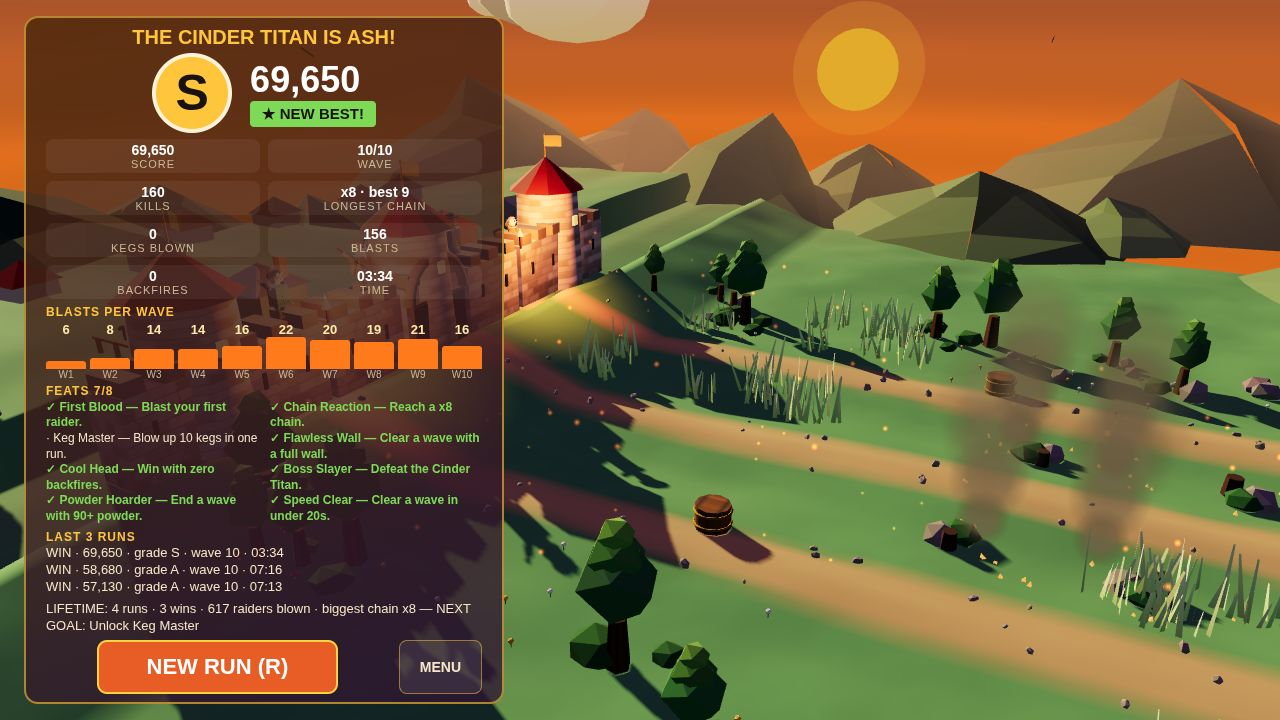
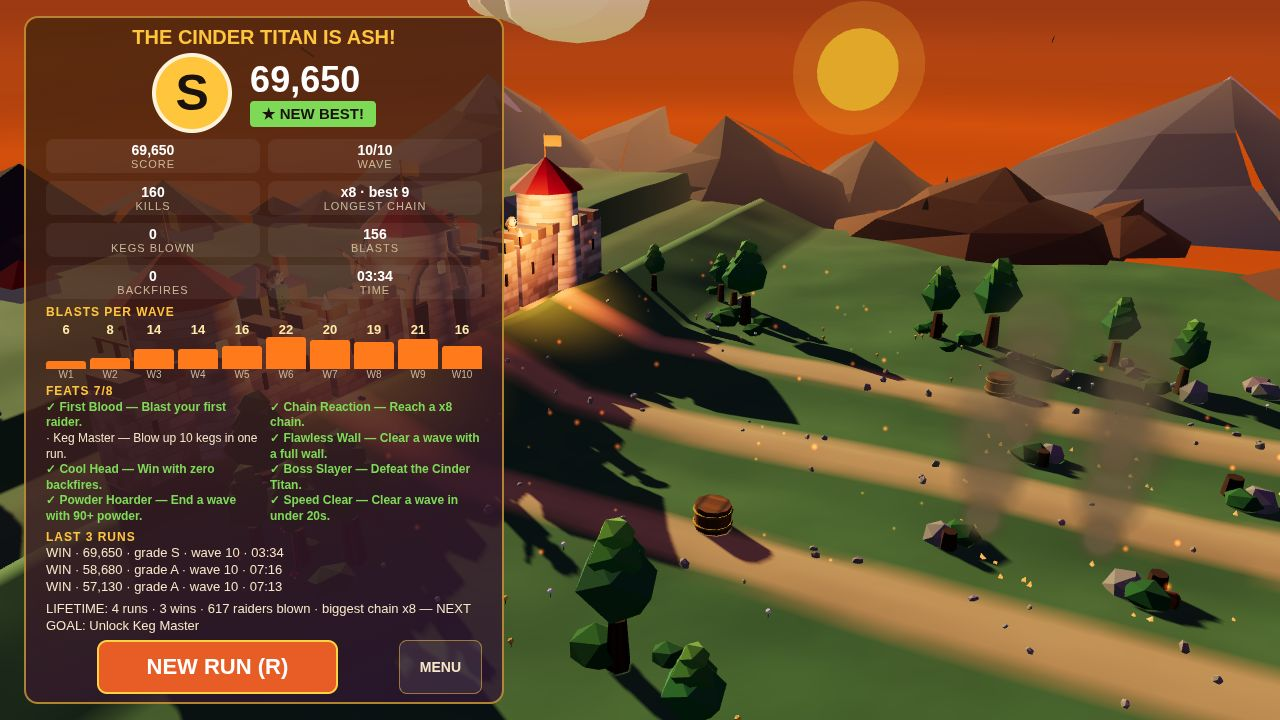
R6A: layered-silhouette mountains + darker ground/deeper sky + delete pale tufts + fat high-contrast trail (Mark 15:11 WIB, items P7/P4/P5/P6)
- P7 mountains: 3 bands (far dark blue-grey 0x46536a, mid grey-brown, near warm brown), relative low-contrast shading so ranges read as silhouettes, snow caps only on the highest (far) peaks, dark pine triangles at the near-ridge foot (dedicated peakRng stream, main rng untouched)
- P4: FIELD_A/B darker + less saturated, SKY_TOP deeper purple, SKY_HORIZON richer orange, fog deeper, exposure 0.95->0.90; action mean luminance 107.2 -> 88.3 (target 85-90); sun/fort/trail/fire/Titan stay warm
- P5: all 600 pale grass tufts buried (y=-100, rng stream preserved, sway bases valid); field keeps trees/rocks/props/scorch/ember flecks
- P6 trail: core 0.44u -> 1.1u, dark brown bed 1.5u -> 4.4u @ 0.8 opacity, glow halo 2.2u -> 2.8u; reads as an orange band with dark edge at full size and at 320px
- sim.js untouched; staged numbers exact (BEST 69,650 / action 59,550 / draft 21,050 / results S 69,650); determinism MATCH 5/5; 0 errors

diff --git a/game/src/terrain.js b/game/src/terrain.js
@@ -291,7 +291,14 @@ export function buildTerrain(scene, rng) {
   // for a layered silhouette. Jitter uses a DEDICATED rng stream so the
   // main seeded layout (grass, flowers, clouds, birds) is unchanged.
   const peakRng = mulberry32(20261117 + 913);
-  const makeJaggedPeak = (radius, height, baseColor) => {
+  // ROUND 6 AGENT A (P7, Mark 15:11 WIB): mountains as LAYERED
+  // SILHOUETTES (PEONY SKY evidence) — a silhouette reads by its outline
+  // against the sky, not by internal facets, so the sunlit/shadow lerp is
+  // now RELATIVE to the base colour (light = base * 1.18, dark = base *
+  // 0.72) instead of the old strong green contrast (pale 0x9ab86a vs deep
+  // 0x16301f) that made each cone read as a flat pyramid. opts.snow adds
+  // a small pale cap at the leaned apex — snow ONLY on the highest peaks.
+  const makeJaggedPeak = (radius, height, baseColor, opts = {}) => {
     let geo = new THREE.ConeGeometry(radius, height, 7, 3);
     const pos = geo.attributes.position;
     for (let i = 0; i < pos.count; i += 1) {
@@ -317,30 +324,51 @@ export function buildTerrain(scene, rng) {
     geo.computeVertexNormals();
     const nrm = geo.attributes.normal;
     const colors = new Float32Array(nrm.count * 3);
-    const light = new THREE.Color(baseColor).lerp(new THREE.Color(0x9ab86a), 0.45);
-    const dark = new THREE.Color(baseColor).lerp(new THREE.Color(0x16301f), 0.55);
+    const base = new THREE.Color(baseColor);
+    const light = base.clone().multiplyScalar(1.18);
+    const dark = base.clone().multiplyScalar(0.72);
     const tmp = new THREE.Color();
     for (let i = 0; i < nrm.count; i += 1) {
-      // Sun sits at -x: faces with a -x normal are sunlit (warm light),
-      // faces with a +x normal are shadowed (deep cool).
-      const f = Math.max(0, Math.min(1, 0.5 - nrm.getX(i) * 0.85));
+      // Sun sits at -x: faces with a -x normal are sunlit, faces with a
+      // +x normal are shadowed — but only mildly, so the range reads as
+      // one silhouette band, not as faceted pyramids.
+      const f = Math.max(0, Math.min(1, 0.5 - nrm.getX(i) * 0.55));
       tmp.copy(dark).lerp(light, f);
       colors[i * 3] = tmp.r;
       colors[i * 3 + 1] = tmp.g;
       colors[i * 3 + 2] = tmp.b;
     }
     geo.setAttribute('color', new THREE.BufferAttribute(colors, 3));
-    return new THREE.Mesh(geo, new THREE.MeshStandardMaterial({ vertexColors: true, roughness: 1, flatShading: true }));
+    const mesh = new THREE.Mesh(geo, new THREE.MeshStandardMaterial({ vertexColors: true, roughness: 1, flatShading: true }));
+    if (opts.snow) {
+      // Small pale cap at the leaned apex: a snow triangle, not a white
+      // mountain. Cap radius ~22% of the peak radius, height ~28% of the
+      // peak height, pale blue-grey 0xd8dce6.
+      const capH = height * 0.28;
+      const cap = new THREE.Mesh(
+        new THREE.ConeGeometry(radius * 0.22, capH, 7),
+        new THREE.MeshStandardMaterial({ color: 0xd8dce6, roughness: 1, flatShading: true })
+      );
+      cap.position.set(leanX, height / 2 - capH / 2 + 0.3, leanZ);
+      mesh.add(cap);
+    }
+    return mesh;
   };
+  // ROUND 6 AGENT A (P7): three bands, darker + less saturated than the
+  // field so sky / mountain / field read as three bands — far ridge dark
+  // desaturated blue-grey against the orange sky, mid ridge grey-brown,
+  // near ridge warmer brown. Old colours were greens (0x3d7a52 /
+  // 0x356b4a / 0x2e5e4e) — same family as the field, so the range blended
+  // into it and read as flat pyramids.
   const hillLayers = [
-    { count: 7, dist: 78, size: [22, 10, 18], color: 0x3d7a52 },
-    { count: 6, dist: 100, size: [30, 16, 24], color: 0x356b4a },
-    { count: 5, dist: 128, size: [40, 22, 30], color: 0x2e5e4e }
+    { count: 7, dist: 78, size: [22, 10, 18], color: 0x6b4a33, near: true },
+    { count: 6, dist: 100, size: [30, 16, 24], color: 0x5a5048 },
+    { count: 5, dist: 128, size: [40, 22, 30], color: 0x46536a, snow: true }
   ];
   for (const layer of hillLayers) {
     for (let i = 0; i < layer.count; i += 1) {
       const angle = (i / layer.count) * Math.PI * 2 + range(rng, -0.2, 0.2);
-      const hill = makeJaggedPeak(layer.size[0], layer.size[1], layer.color);
+      const hill = makeJaggedPeak(layer.size[0], layer.size[1], layer.color, { snow: !!layer.snow });
       hill.position.set(Math.cos(angle) * layer.dist, layer.size[1] * 0.32, Math.sin(angle) * layer.dist);
       hill.scale.z = layer.size[2] / layer.size[0];
       hill.rotation.y = rng() * Math.PI;
@@ -353,6 +381,26 @@ export function buildTerrain(scene, rng) {
       sat.scale.z = layer.size[2] / layer.size[0];
       sat.rotation.y = rng() * Math.PI;
       group.add(sat);
+      // ROUND 6 AGENT A (P7): a few dark pine triangles at the foot of
+      // the NEAR ridge — the forest the analysis prescribes. Draws from
+      // peakRng (the dedicated mountain stream), never the main rng, so
+      // the seeded layout of everything after the mountains is unchanged.
+      if (layer.near) {
+        for (let p = 0; p < 2; p += 1) {
+          const pineH = 4.5 + peakRng() * 2.5;
+          const pine = new THREE.Mesh(
+            new THREE.ConeGeometry(1.3 + peakRng() * 0.7, pineH, 4),
+            new THREE.MeshStandardMaterial({ color: 0x1c2a1c, roughness: 1, flatShading: true })
+          );
+          pine.position.set(
+            hill.position.x + (peakRng() - 0.5) * layer.size[0] * 1.1,
+            pineH / 2 - 0.3,
+            hill.position.z + (peakRng() - 0.5) * layer.size[0] * 0.7
+          );
+          pine.rotation.y = peakRng() * Math.PI;
+          group.add(pine);
+        }
+      }
     }
   }
 
@@ -663,6 +711,14 @@ export function buildTerrain(scene, rng) {
         dummy.rotation.set(range(rng, -0.28, 0.28), rng() * Math.PI, range(rng, -0.28, 0.28));
         const w = 0.75 + 0.55 * hash01(ci, b);
         dummy.scale.set(w, range(rng, 0.45, 1.4), w);
+        // ROUND 6 AGENT A (P5, Mark 15:11 WIB): DELETE ALL pale tufts, no
+        // replacement — the bright-tipped spike clusters read as glare/noise
+        // mid-field, and no top-4 entry uses them. Bury all 600 blades
+        // (same technique as the wheat + dry grass burials: rng calls above
+        // preserved, sway bases stay valid, so the seeded layout of
+        // everything after is unchanged). The field keeps trees, rocks,
+        // prop clusters, the scorch band and ember flecks.
+        dummy.position.y = -100;
         dummy.updateMatrix();
         grass.setMatrixAt(gi, dummy.matrix);
         cTmp.setRGB(0.9 + rng() * 0.25, 0.95 + rng() * 0.25, 0.85 + rng() * 0.2);

diff --git a/game/src/render3d.js b/game/src/render3d.js
@@ -235,13 +235,15 @@ export class Renderer {
     this.renderer.shadowMap.type = THREE.PCFSoftShadowMap;
     this.renderer.outputColorSpace = THREE.SRGBColorSpace;
     this.renderer.toneMapping = THREE.ACESFilmicToneMapping;
-    // ROUND 3 AGENT B (item 7, Rizal): the frame was washed out — exposure
-    // 1.15 + sun 2.6 + hemi 0.85 blew the field and sky pale. Dialled down
-    // ~20%: golden hour stays, glare goes.
-    this.renderer.toneMappingExposure = 0.95;
+    // ROUND 6 AGENT A (P4, Mark 15:11 WIB): darken the ground, deepen
+    // the sky — the field must stop being the brightest large area in the
+    // frame (action mean was 107.2; target ~85-90). Golden hour stays:
+    // the warmth is in the accents (sun, fort, trail, fire, Titan), not
+    // in the field. Exposure 0.95 -> 0.90, fog deeper.
+    this.renderer.toneMappingExposure = 0.90;
 
     this.scene = new THREE.Scene();
-    this.scene.fog = new THREE.Fog(0xdd9660, 95, 210);
+    this.scene.fog = new THREE.Fog(0xcf8a52, 95, 210);
 
     this.camera = new THREE.PerspectiveCamera(45, 1280 / 720, 0.1, 500);
     this.camPos = new THREE.Vector3(34, 30, 44);
@@ -813,12 +815,16 @@ export class Renderer {
       if (i < n - 1) { dx = pts[i + 1].x - pts[i].x; dz = pts[i + 1].z - pts[i].z; }
       else if (i > 0) { dx = pts[i].x - pts[i - 1].x; dz = pts[i].z - pts[i - 1].z; }
       const len = Math.hypot(dx, dz) || 1;
-      // ROUND 3 AGENT B (item 10, Rizal): the 0.3u ribbon is ~1px at 320px
-      // and vanishes in the thumbnail. Main ribbon 0.3u -> 0.44u, halo
-      // 1.6u -> 2.2u @ 0.6, bed 1.0u -> 1.5u — the burning trail must read
-      // as a thick high-contrast line at 320px.
-      const px = -dz / len * 0.22;
-      const pz = dx / len * 0.22;
+      // ROUND 6 AGENT A (P6, Mark 15:11 WIB): FAT high-contrast trail —
+      // the 0.44u ribbon was ~1px at 320px and invisible in the thumbnail
+      // (STITCHBOUND's fat red thread is the evidence: fat + high contrast
+      // reads as a curve at 320px). New stack, bottom to top: dark brown
+      // BED 4.4u wide (the contrast edge, opacity 0.8 so it reads as a
+      // dark outline against the tan road) → deep-orange GLOW halo 2.8u →
+      // bright core ribbon 1.1u (2.5x the old width). At 320px the whole
+      // band is ~10px: dark edge + orange glow + bright core.
+      const px = -dz / len * 0.55;
+      const pz = dx / len * 0.55;
       const y = terrainHeight(pts[i].x, pts[i].z) + 0.18;
       positions[i * 6] = pts[i].x + px;
       positions[i * 6 + 1] = y;
@@ -826,9 +832,9 @@ export class Renderer {
       positions[i * 6 + 3] = pts[i].x - px;
       positions[i * 6 + 4] = y;
       positions[i * 6 + 5] = pts[i].z - pz;
-      // Glow halo vertices: 2.2u wide (was 1.6u), 0.06u below the main ribbon.
-      const gx = -dz / len * 1.1;
-      const gz = dx / len * 1.1;
+      // Glow halo vertices: 2.8u wide (half-width 1.4), 0.06u below the main ribbon.
+      const gx = -dz / len * 1.4;
+      const gz = dx / len * 1.4;
       const gy = terrainHeight(pts[i].x, pts[i].z) + 0.12;
       glowPositions[i * 6] = pts[i].x + gx;
       glowPositions[i * 6 + 1] = gy;
@@ -841,9 +847,11 @@ export class Renderer {
         glowColors[(i * 2 + v) * 3 + 1] = colHalo.g;
         glowColors[(i * 2 + v) * 3 + 2] = colHalo.b;
       }
-      // Bed vertices: 1.5u wide (half-width 0.75, was 1.0u), 0.02u below the halo.
-      const bx = -dz / len * 0.75;
-      const bz = dx / len * 0.75;
+      // Bed vertices: 4.4u wide (half-width 2.2) — the WIDEST layer, so
+      // the dark brown edge shows outside the glow on both sides.
+      // 0.02u below the halo.
+      const bx = -dz / len * 2.2;
+      const bz = dx / len * 2.2;
       const by = terrainHeight(pts[i].x, pts[i].z) + 0.10;
       bedPositions[i * 6] = pts[i].x + bx;
       bedPositions[i * 6 + 1] = by;
@@ -899,10 +907,11 @@ export class Renderer {
     this.trailGlowGeo.setIndex(indices);
     this.trailGlowGeo.computeBoundingSphere();
     this.trailGlowMesh.visible = true;
-    // Bed mesh (dark powder bed under the glow).
+    // Bed mesh (dark powder bed under the glow — ROUND 6 P6: opacity 0.8
+    // so the 4.4u bed reads as a real dark edge, not a faint shadow).
     if (!this.trailBedGeo) {
       this.trailBedGeo = new THREE.BufferGeometry();
-      this.trailBedMat = new THREE.MeshBasicMaterial({ vertexColors: true, transparent: true, opacity: 0.6, side: THREE.DoubleSide, depthWrite: false });
+      this.trailBedMat = new THREE.MeshBasicMaterial({ vertexColors: true, transparent: true, opacity: 0.8, side: THREE.DoubleSide, depthWrite: false });
       this.trailBedMesh = new THREE.Mesh(this.trailBedGeo, this.trailBedMat);
       this.trailBedMesh.frustumCulled = false;
       this.scene.add(this.trailBedMesh);

diff --git a/game/src/data.js b/game/src/data.js
@@ -33,11 +33,11 @@ export const PALETTE = {
   SKY_DUSK: 0x6b4e8e,
   CREAM: 0xf5e6c8,
   CHARCOAL: 0x2b2b2b,
-  SKY_TOP: 0x7a5a9e,
-  SKY_HORIZON: 0xefae5e,
+  SKY_TOP: 0x5a3d78,
+  SKY_HORIZON: 0xe8953a,
   SUN: 0xffdf8a,
-  FIELD_A: 0x5fa860,
-  FIELD_B: 0x57a05b,
+  FIELD_A: 0x4a7c46,
+  FIELD_B: 0x447844,
   PATH: 0xc9a86a,
   WALL_STONE: 0xc9b8a3,
   WALL_MORTAR: 0x8a7a66,
